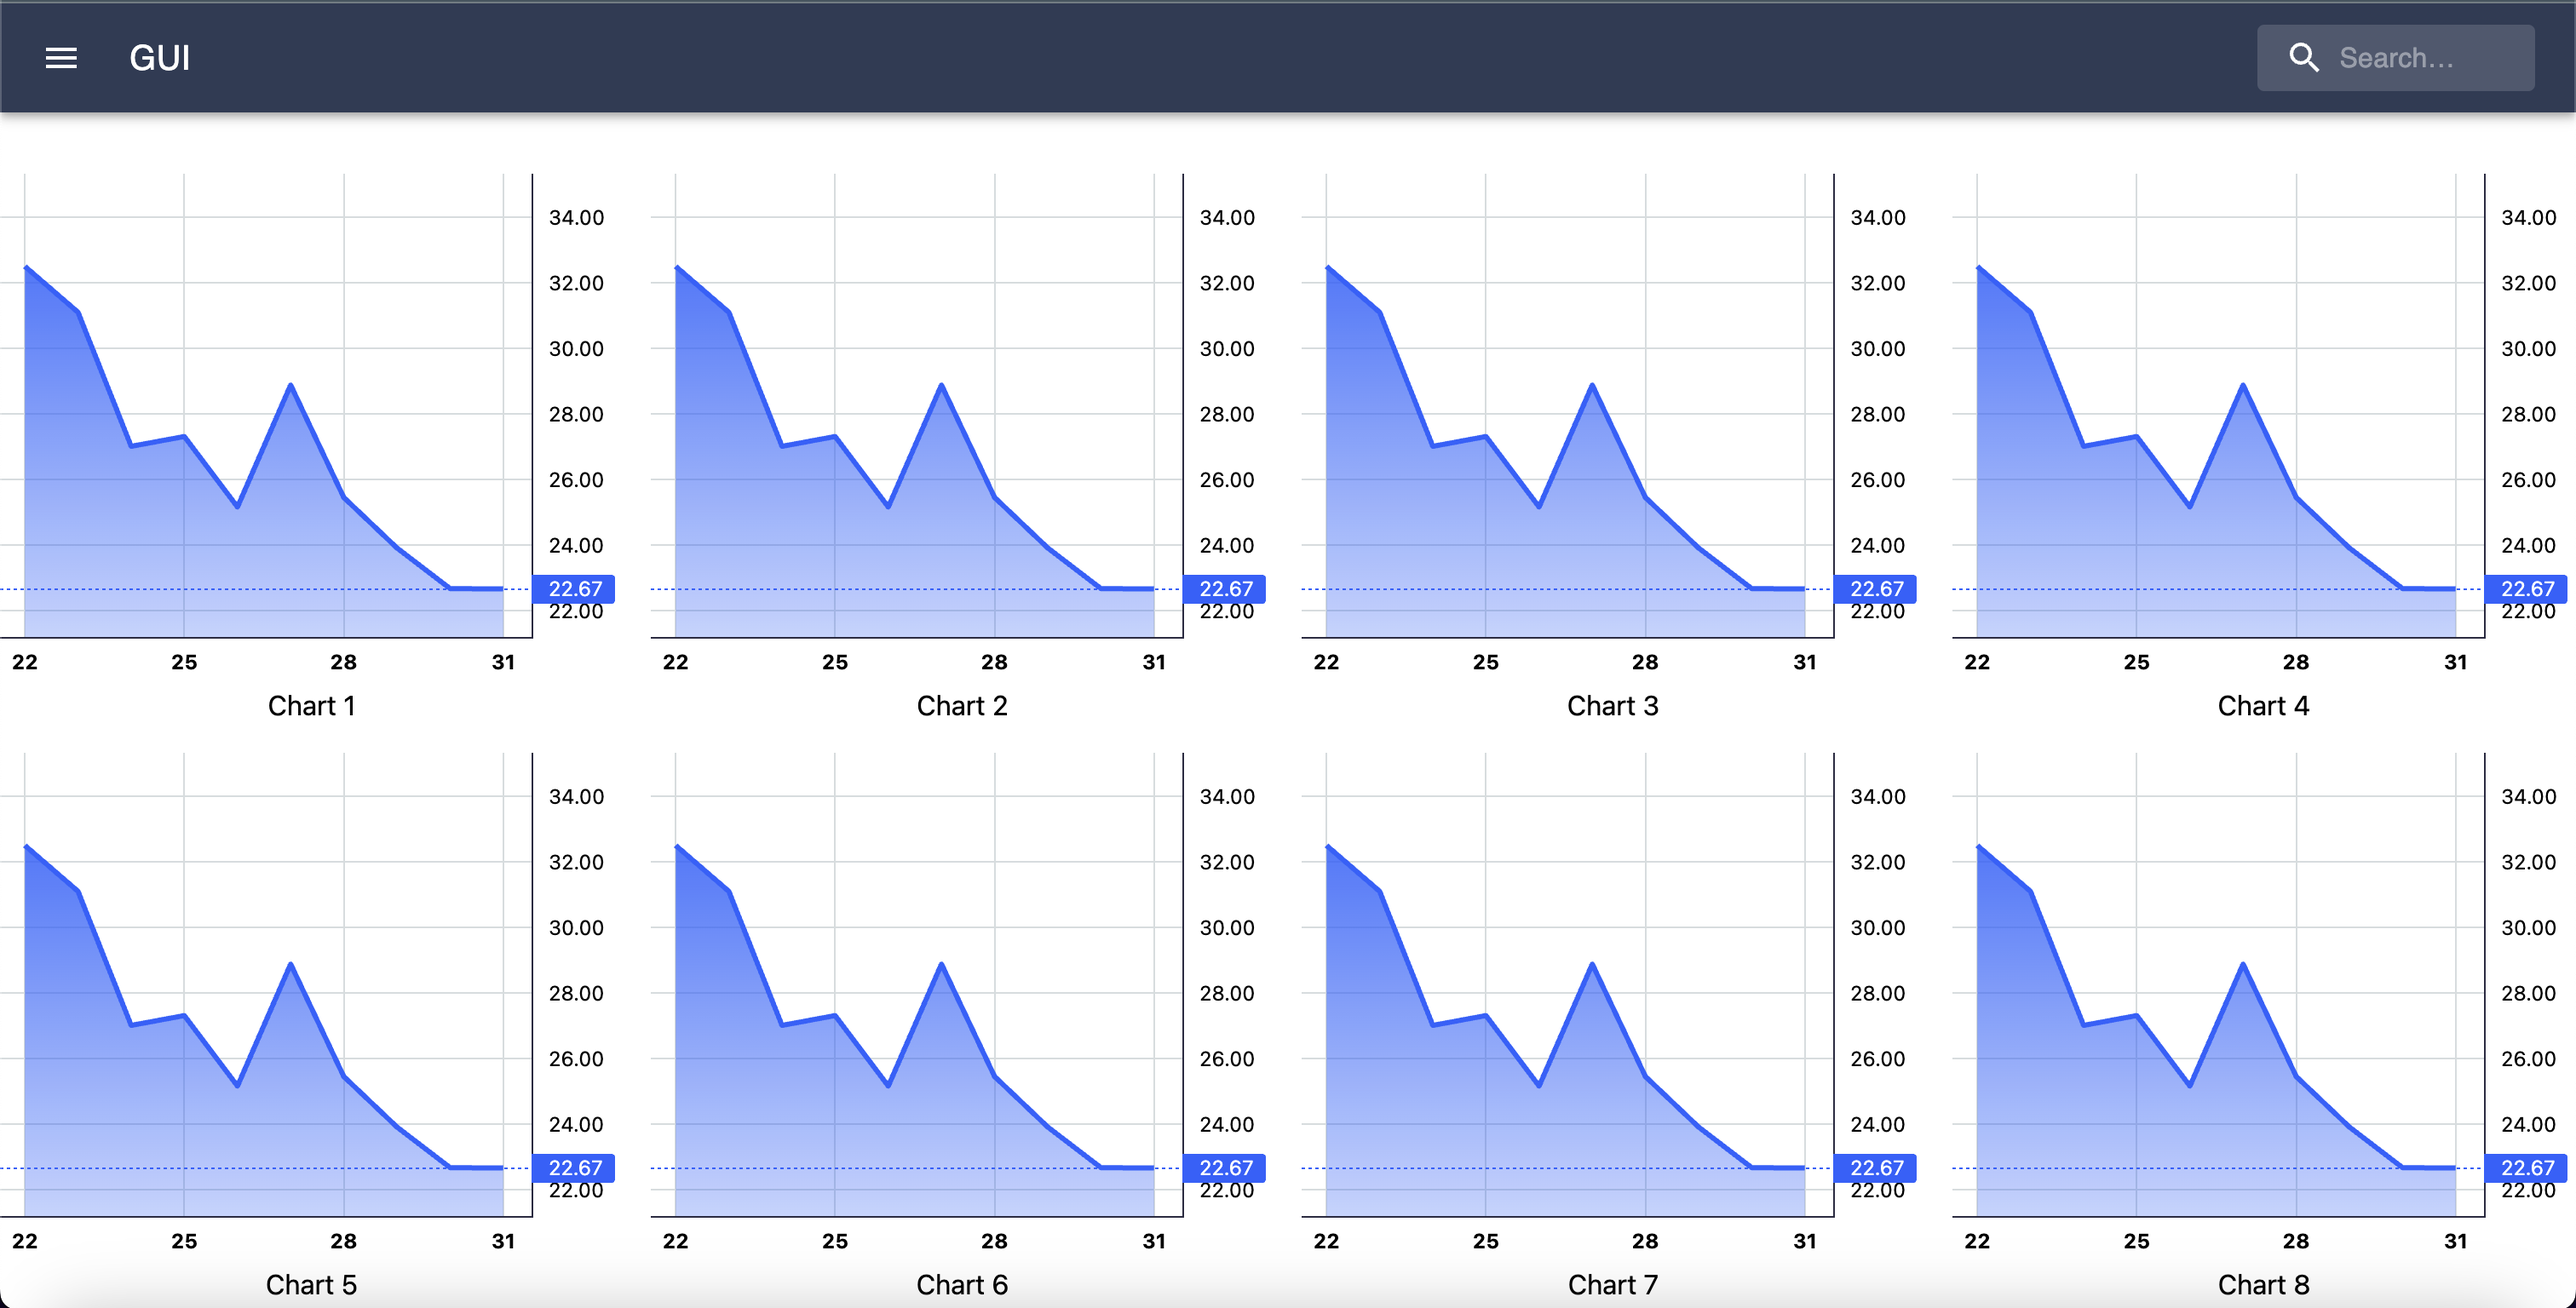
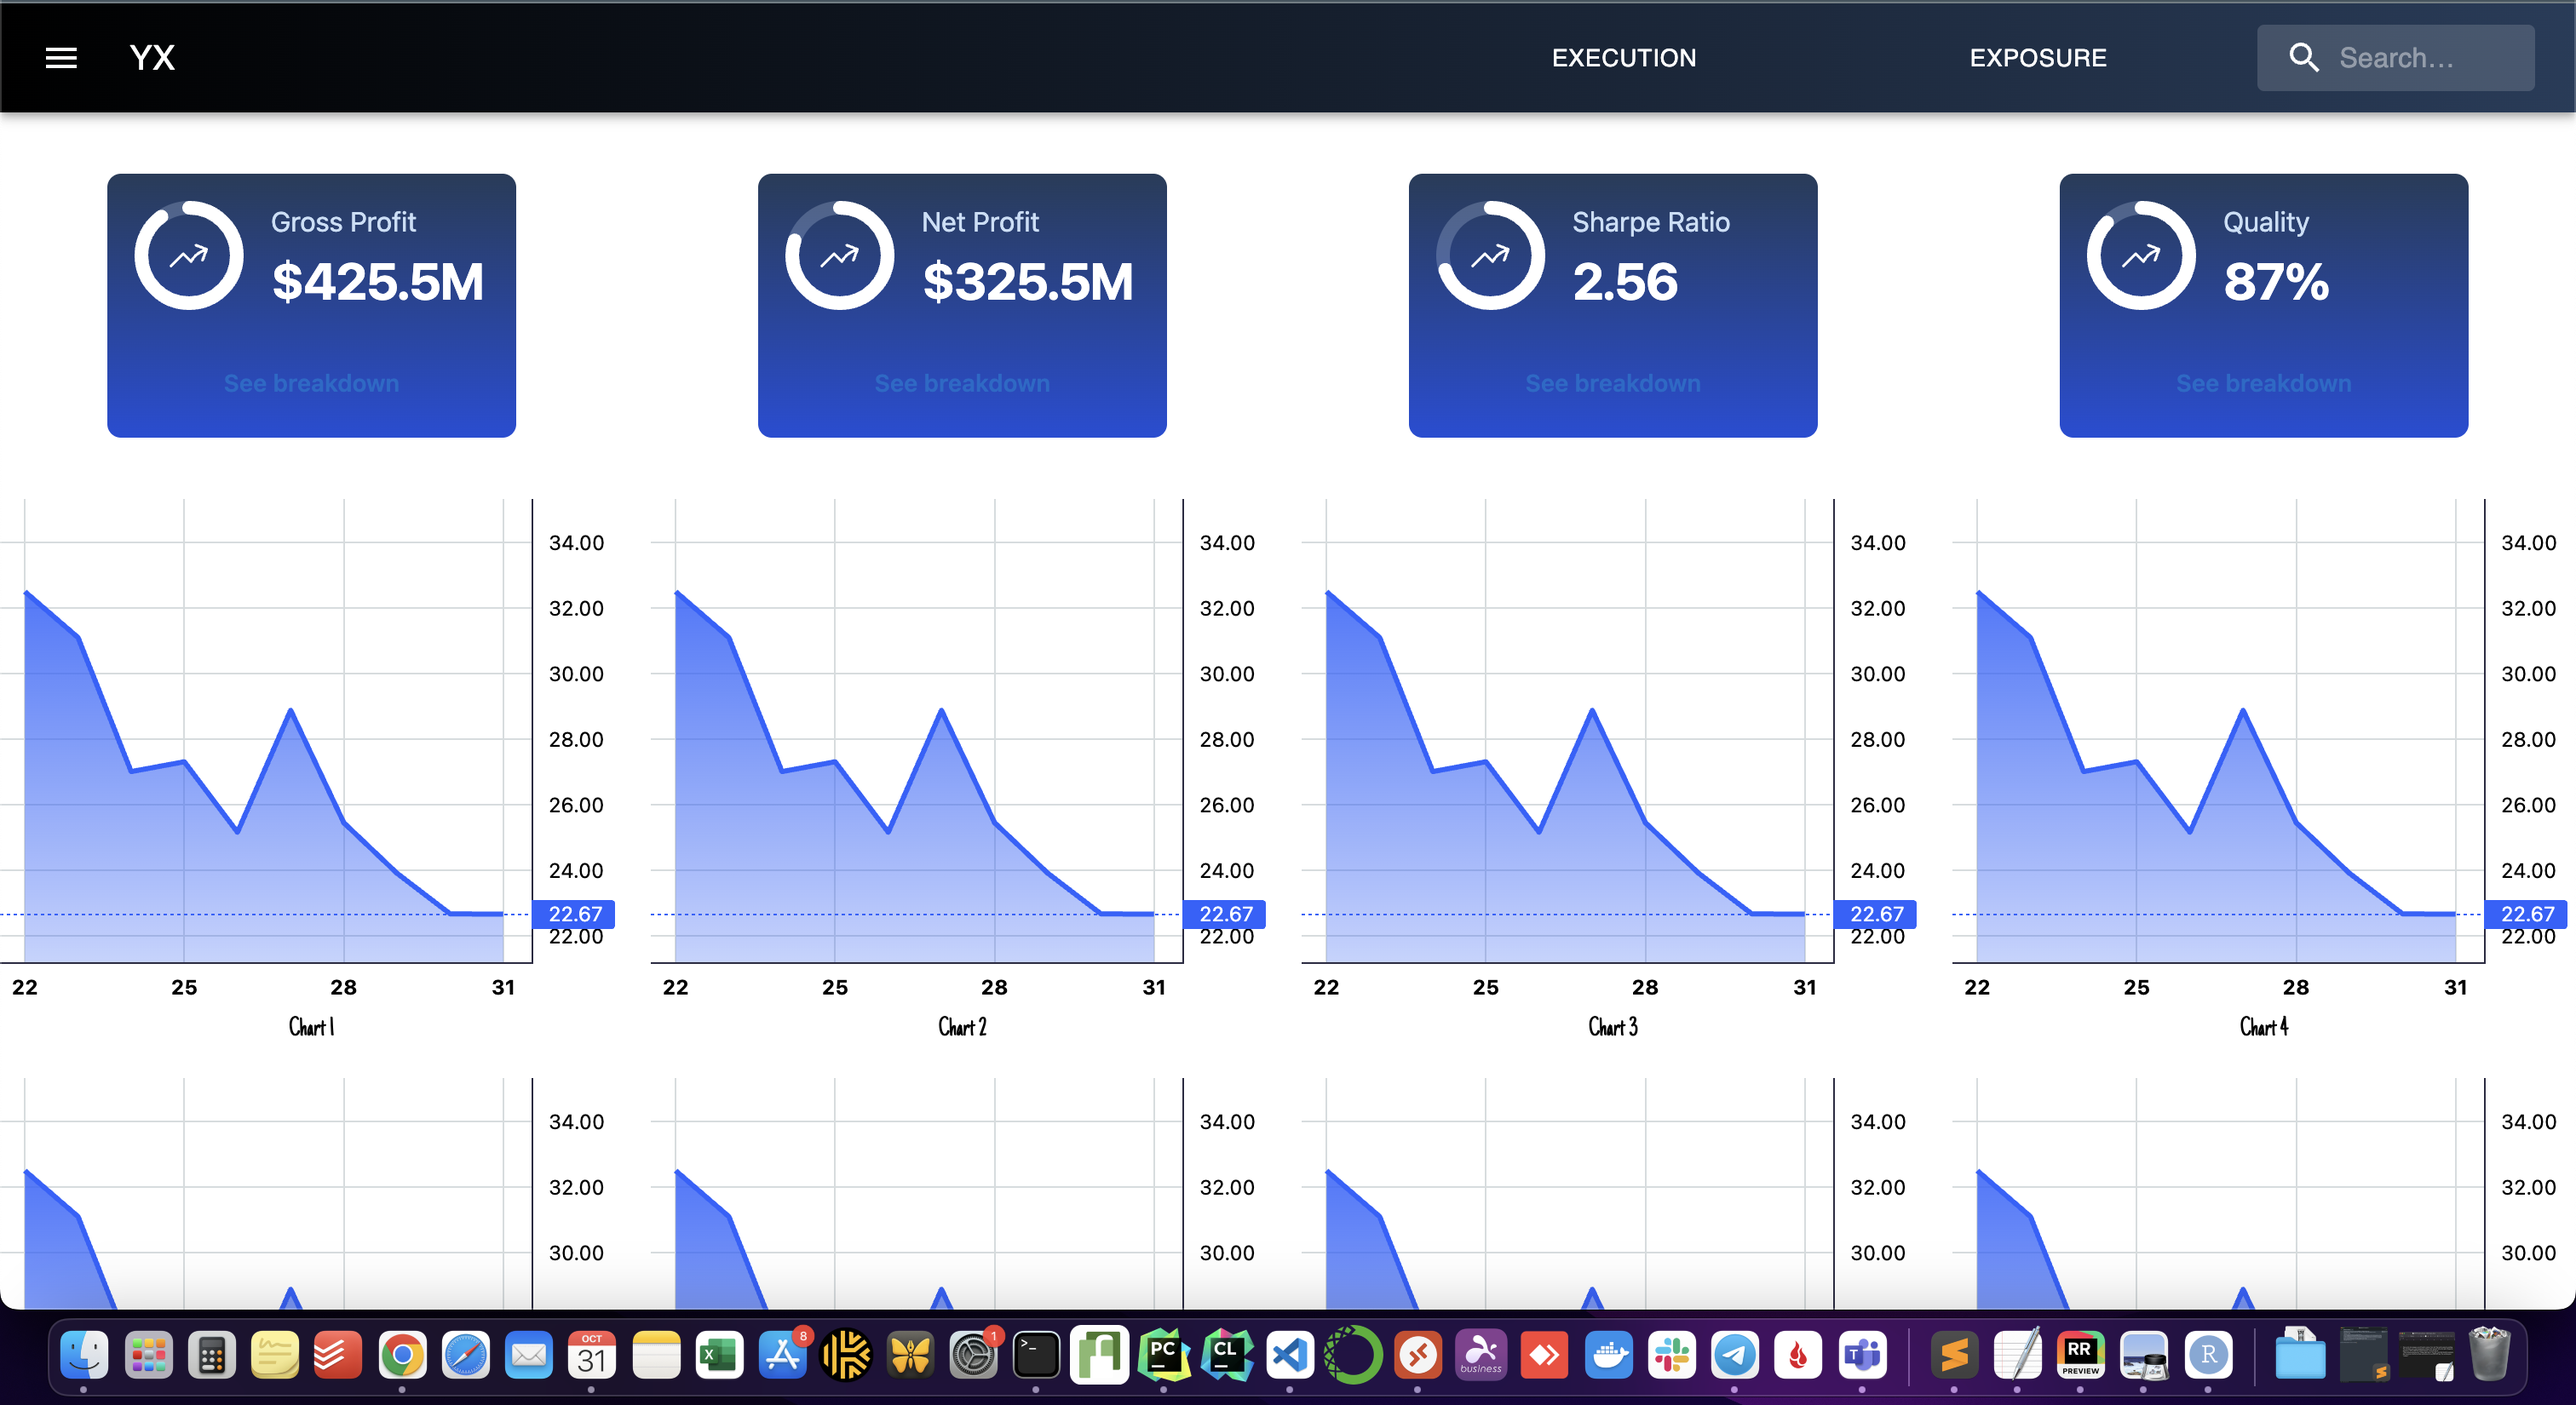
cleanup

diff --git a/pages/exposure.jsx b/pages/exposure.jsx
@@ -77,7 +77,7 @@ export default function ExposurePage() {
             </Grid>
             <Typography variant='h6' className='p-5 font-hw'>Exposure Calendar</Typography>
             <HeatMap xLabels={xLabels} yLabels={yLabels} data={data} />
-            <Typography variant='h6' className='p-5 font-hw'>Factors</Typography>
+            <Typography variant='h6' className='p-5 font-hw'>Factor Loadings</Typography>
             <MyDataGrid className='my-20' columns={defaultColumns} rows={defaultRows} />
             <Box className='flex items-center justify-center'>
               <TradingViewWidget className='h-full w-full'/>

diff --git a/readme.md b/readme.md
@@ -20,7 +20,10 @@ Visualizations:
 
 ![Mobile](./assets/mobile.png)
 
+Pages
+![Execution](./assets/Execution.png)
 
+![Exposure](./assets/Exposure.png)
 
 
 Entrypoint Flow
